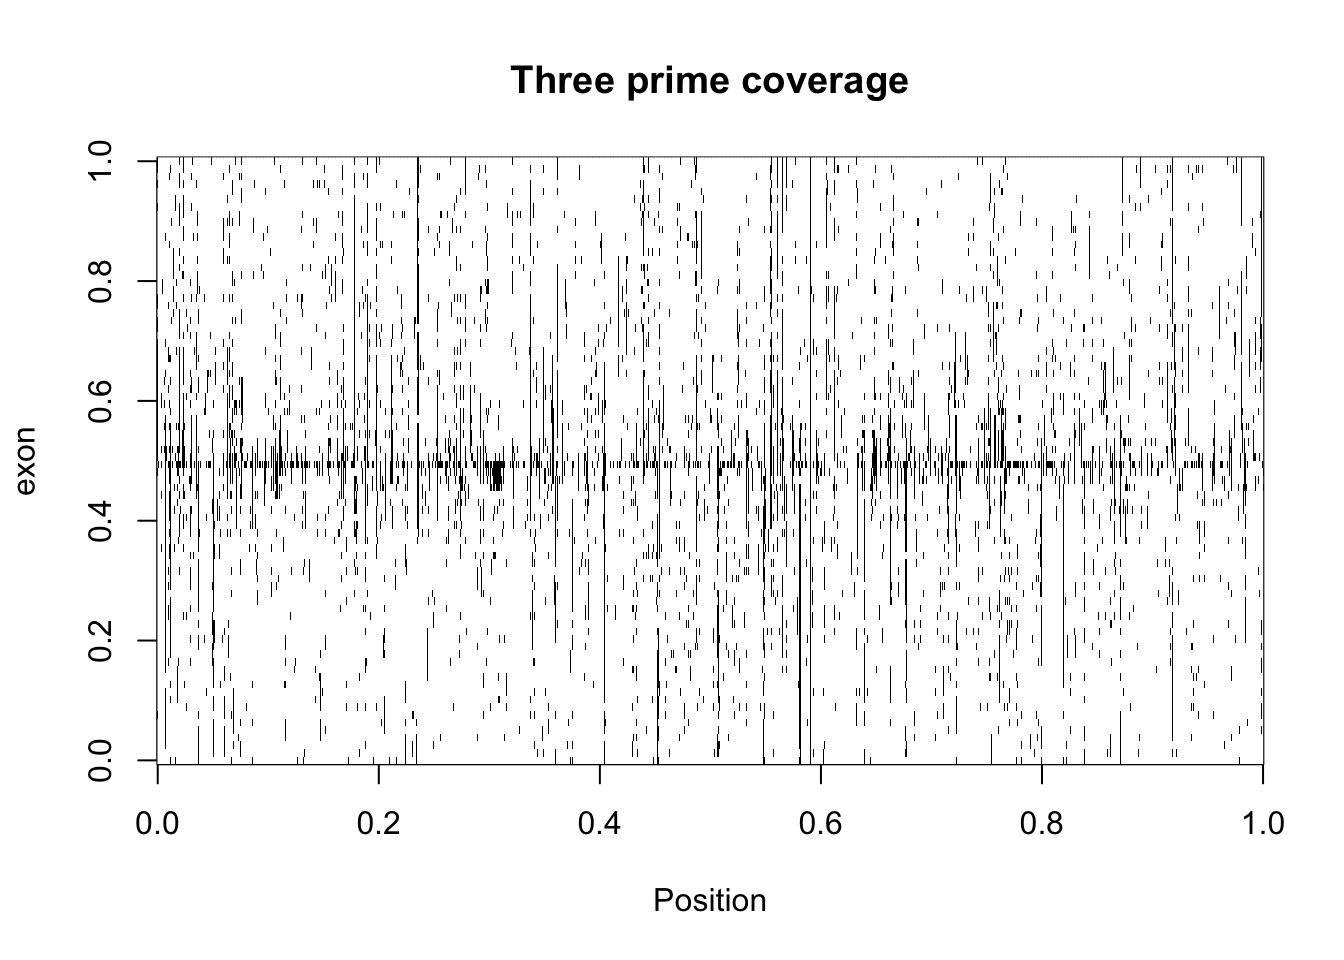
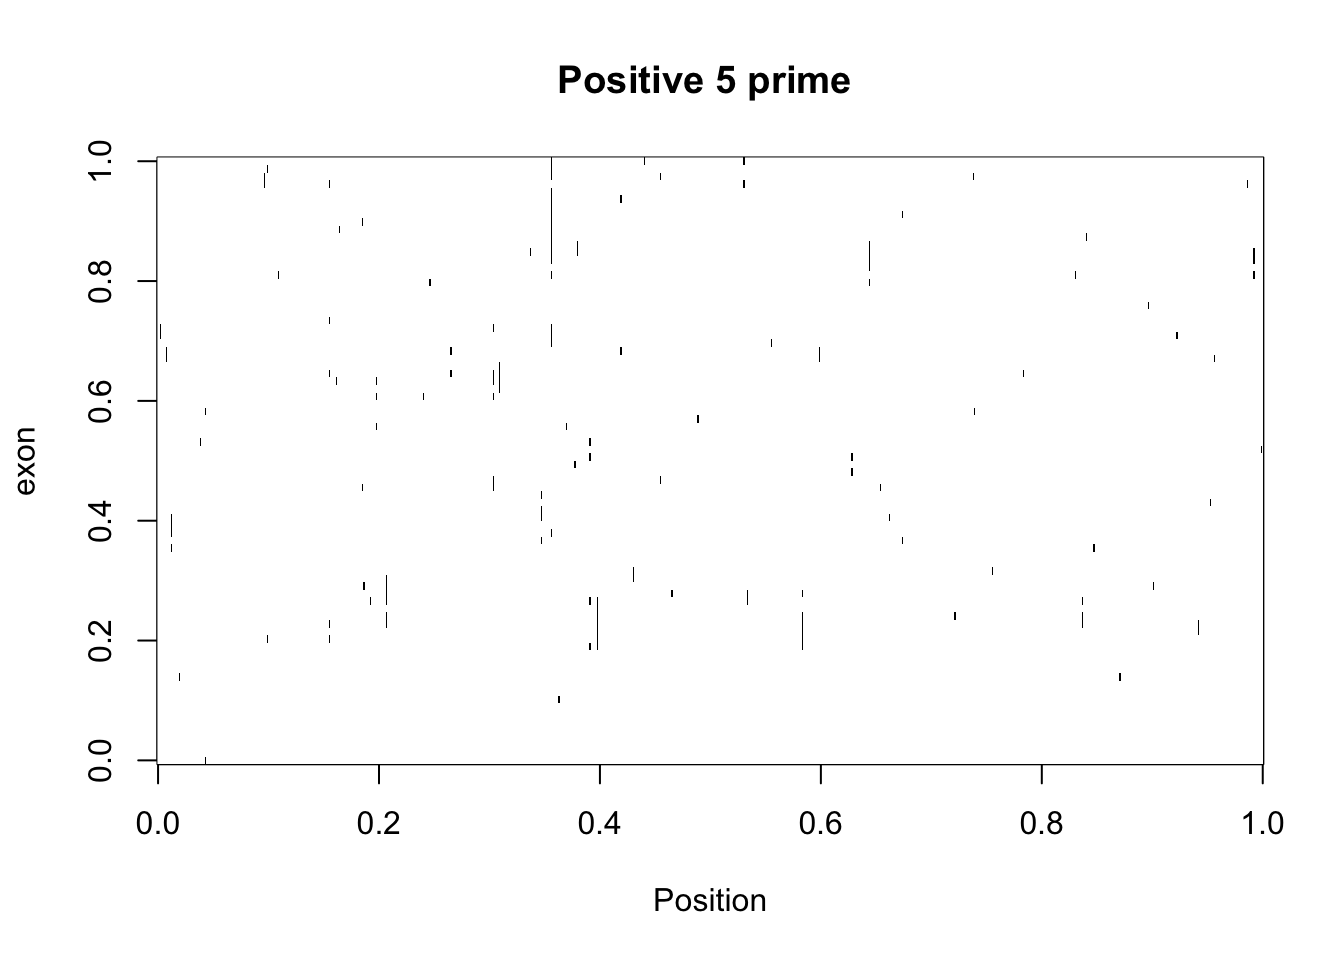
Build site.

diff --git a/docs/recreate_mayer_figs.html b/docs/recreate_mayer_figs.html
@@ -315,10 +315,10 @@ div.tocify {
 shared across the workflowr files. -->
 <!-- Update knitr chunk options -->
 <!-- Insert the date the file was last updated -->
-<p><strong>Last updated:</strong> 2018-03-19</p>
+<p><strong>Last updated:</strong> 2018-03-20</p>
 <!-- Insert the code version (Git commit SHA1) if Git repository exists and R
  package git2r is installed -->
-<p><strong>Code version:</strong> 3aa98a8</p>
+<p><strong>Code version:</strong> 9374de6</p>
 <!-- Add your analysis here -->
 <p>This analysis is to recreate some of the figures from the Mayer paper using my data.</p>
 <pre class="r"><code>library(dplyr)</code></pre>
@@ -747,11 +747,74 @@ five_prime_matrix2_998=cut_top(five_prime_matrix2)</code></pre>
 <p><img src="figure/recreate_mayer_figs.Rmd/unnamed-chunk-48-1.png" width="672" style="display: block; margin: auto;" /></p>
 <pre class="r"><code>image(five_prime_matrix2_998,col=my_palette, ylab=&quot;exon&quot;, xlab=&quot;Position&quot;, main=&quot;Five prime coverage&quot;)</code></pre>
 <p><img src="figure/recreate_mayer_figs.Rmd/unnamed-chunk-48-2.png" width="672" style="display: block; margin: auto;" /></p>
-<p>Try to make the top plots with mean and sd:</p>
-<pre class="r"><code>image(three_prime_matrix2_bin,col=my_palette, ylab=&quot;exon&quot;, xlab=&quot;Position&quot;, main=&quot;Three prime coverage&quot;)</code></pre>
+<p><strong>I need to pull the data frames in pos and neg seperatly!! these images do not have flipped rows for neg strand</strong></p>
+<p>Run on just the positive strand first:</p>
+<pre class="r"><code>cov_bypos_pos2_matrix= five_prime_cov %&gt;% filter(strand==&quot;+&quot;) %&gt;% make_matrix() %&gt;% make_binary()
+
+image(cov_bypos_pos2_matrix,col=my_palette, ylab=&quot;exon&quot;, xlab=&quot;Position&quot;, main=&quot;Positive 5 prime &quot;)</code></pre>
 <p><img src="figure/recreate_mayer_figs.Rmd/unnamed-chunk-49-1.png" width="672" style="display: block; margin: auto;" /></p>
-<pre class="r"><code>image(five_prime_matrix2_bin,col=my_palette, ylab=&quot;exon&quot;, xlab=&quot;Position&quot;, main=&quot;Five prime coverage&quot;)</code></pre>
+<pre class="r"><code>cov_bypos_pos2_3_matrix = three_prime_cov2 %&gt;% filter(strand==&quot;+&quot;) %&gt;% make_matrix() %&gt;% make_binary()
+image(cov_bypos_pos2_3_matrix,col=my_palette, ylab=&quot;exon&quot;, xlab=&quot;Position&quot;, main=&quot;Positive 3 prime &quot;)</code></pre>
 <p><img src="figure/recreate_mayer_figs.Rmd/unnamed-chunk-49-2.png" width="672" style="display: block; margin: auto;" /></p>
+<p>Do the same with the negative:</p>
+<pre class="r"><code>cov_bypos_neg2_matrix= five_prime_cov2 %&gt;% filter(strand==&quot;-&quot;)  %&gt;% make_matrix() %&gt;% make_binary()
+image(cov_bypos_neg2_matrix,col=my_palette, ylab=&quot;exon&quot;, xlab=&quot;Position&quot;, main=&quot;Negative 5 prime &quot;)</code></pre>
+<p><img src="figure/recreate_mayer_figs.Rmd/unnamed-chunk-50-1.png" width="672" style="display: block; margin: auto;" /></p>
+<pre class="r"><code>cov_bypos_neg2_3_matrix= three_prime_cov2 %&gt;% filter(strand==&quot;-&quot;) %&gt;% make_matrix() %&gt;% make_binary()
+image(cov_bypos_neg2_3_matrix,col=my_palette, ylab=&quot;exon&quot;, xlab=&quot;Position&quot;, main=&quot;Negative 3 prime &quot;)</code></pre>
+<p><img src="figure/recreate_mayer_figs.Rmd/unnamed-chunk-50-2.png" width="672" style="display: block; margin: auto;" /> Make a function to reverse each row of the negative matricies:</p>
+<pre class="r"><code>rev_rows=function(matrix){
+  new_matrix= matrix(NA, nrow = nrow(matrix), ncol = ncol(matrix))
+  for (row in 1:nrow(matrix)){
+    x= rev(matrix[row,])
+    new_matrix[row,]=x
+  }
+  return(new_matrix)
+}</code></pre>
+<p>Use this function to flip the negative matrix then bind it to the original. I will also cut the top to better the vizualization.</p>
+<pre class="r"><code>flip_neg2_5prime=rev_rows(cov_bypos_neg2_matrix)
+full_5prime_matrix_cut= rbind(cov_bypos_pos2_matrix,flip_neg2_5prime) %&gt;% cut_top()
+
+
+flip_neg2_3prime=rev_rows(cov_bypos_neg2_3_matrix)
+full_3prime_matrix_cut=rbind(cov_bypos_pos2_3_matrix, flip_neg2_3prime) %&gt;% cut_top()</code></pre>
+<p>Images</p>
+<pre class="r"><code>image(full_5prime_matrix_cut,col=my_palette, ylab=&quot;exon&quot;, xlab=&quot;Position&quot;, main=&quot;5&#39; all exons&quot;)</code></pre>
+<p><img src="figure/recreate_mayer_figs.Rmd/unnamed-chunk-53-1.png" width="672" style="display: block; margin: auto;" /></p>
+<pre class="r"><code>image(full_3prime_matrix_cut,col=my_palette, ylab=&quot;exon&quot;, xlab=&quot;Position&quot;, main=&quot;3&#39; all exons&quot;)</code></pre>
+<p><img src="figure/recreate_mayer_figs.Rmd/unnamed-chunk-53-2.png" width="672" style="display: block; margin: auto;" /></p>
+<p>Make these with the ggplot version:</p>
+<pre class="r"><code>heatmap.2(full_5prime_matrix_cut,dendrogram=&#39;none&#39;, Rowv=FALSE, Colv=FALSE,trace=&#39;none&#39;)</code></pre>
+<p><img src="figure/recreate_mayer_figs.Rmd/unnamed-chunk-54-1.png" width="672" style="display: block; margin: auto;" /></p>
+<p>Try to make the top plots with mean and sd:</p>
+<pre class="r"><code>full_5prime_matrix= rbind(cov_bypos_pos2_matrix,flip_neg2_5prime) 
+
+means_5prime=apply(full_5prime_matrix, 2, mean)
+sd_5prime=apply(full_5prime_matrix, 2, sd)
+
+
+df_5prime=as.data.frame(cbind(pos=seq(-40,39,1), mean=means_5prime, SD=sd_5prime))
+df_5prime_long= melt(df_5prime, id.vars=&quot;pos&quot;, measure.vars = c(&quot;mean&quot;, &quot;SD&quot;),  varnames =c(&quot;mean&quot;, &quot;SD&quot;))</code></pre>
+<p>Plot the mean at each position:</p>
+<pre class="r"><code>ggplot(df_5prime,aes(x=pos, y=mean)) + geom_line() + ggtitle(&quot;5&#39; splice site&quot;) + geom_ribbon(aes(x=pos, ymin=mean - SD,ymax=mean + SD), alpha=0.20) + xlim(c(-20,20))</code></pre>
+<pre><code>Warning: Removed 39 rows containing missing values (geom_path).</code></pre>
+<p><img src="figure/recreate_mayer_figs.Rmd/unnamed-chunk-56-1.png" width="672" style="display: block; margin: auto;" /></p>
+<p>Same for 3prime:</p>
+<pre class="r"><code>full_3prime_matrix=rbind(cov_bypos_pos2_3_matrix, flip_neg2_3prime)
+
+
+means_3prime=apply(full_3prime_matrix, 2, mean)
+sd_3prime=apply(full_3prime_matrix, 2, sd)
+
+
+df_3prime=as.data.frame(cbind(pos=seq(-40,39,1), mean=means_3prime, SD=sd_3prime))
+df_3prime_long= melt(df_3prime, id.vars=&quot;pos&quot;, measure.vars = c(&quot;mean&quot;, &quot;SD&quot;),  varnames =c(&quot;mean&quot;, &quot;SD&quot;))
+
+
+ggplot(df_3prime,aes(x=pos, y=mean)) + geom_line() + ggtitle(&quot;3&#39; splice site mean coverage&quot;)+ geom_ribbon(aes(x=pos, ymin=mean - SD,ymax=mean + SD), alpha=0.20) +
+  xlim(c(-20,20))</code></pre>
+<pre><code>Warning: Removed 39 rows containing missing values (geom_path).</code></pre>
+<p><img src="figure/recreate_mayer_figs.Rmd/unnamed-chunk-57-1.png" width="672" style="display: block; margin: auto;" /></p>
 </div>
 <div id="filter-out-first-and-last-exon" class="section level4">
 <h4>Filter out first and last exon</h4>
